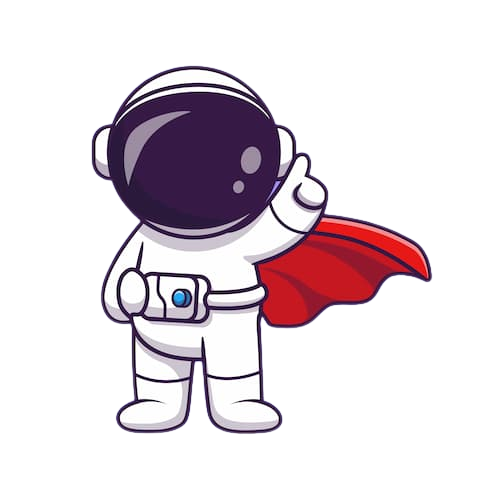
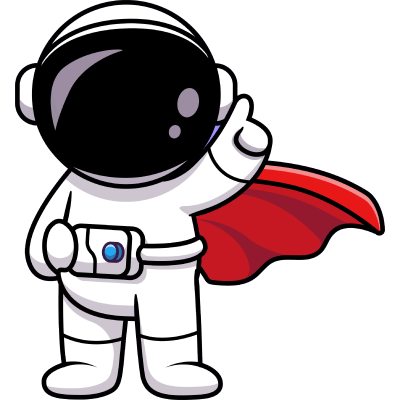
Lukasz conflict resolved - path for astronau-timage in Home.jsx

diff --git a/frontend/src/pages/Home.jsx b/frontend/src/pages/Home.jsx
@@ -8,7 +8,7 @@ import Saturn from "@components/home/Saturn";
 import Uranus from "@components/home/Uranus";
 import Neptune from "@components/home/Neptune";
 // import orbit from "@assets/orbit.svg";
-import astronaut from "../assets/images/astronauts/astronaut-home.png";
+import astronaut from "../assets/images/astronauts/astronaut_4.png";
 import cloud from "../assets/images/astronauts/cloud.png";
 import "../css/home/Home.css";
 
